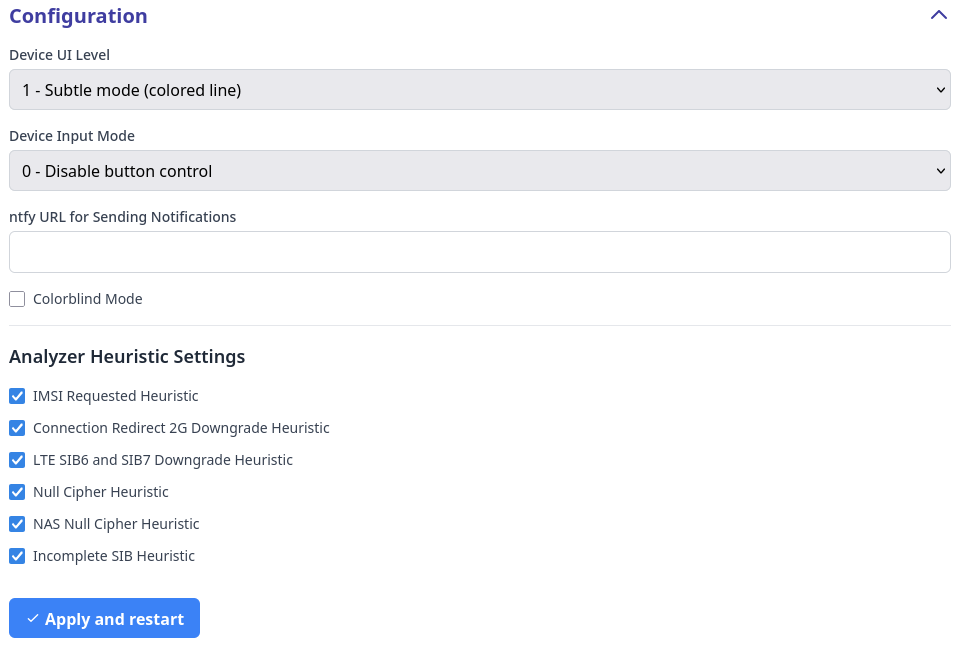
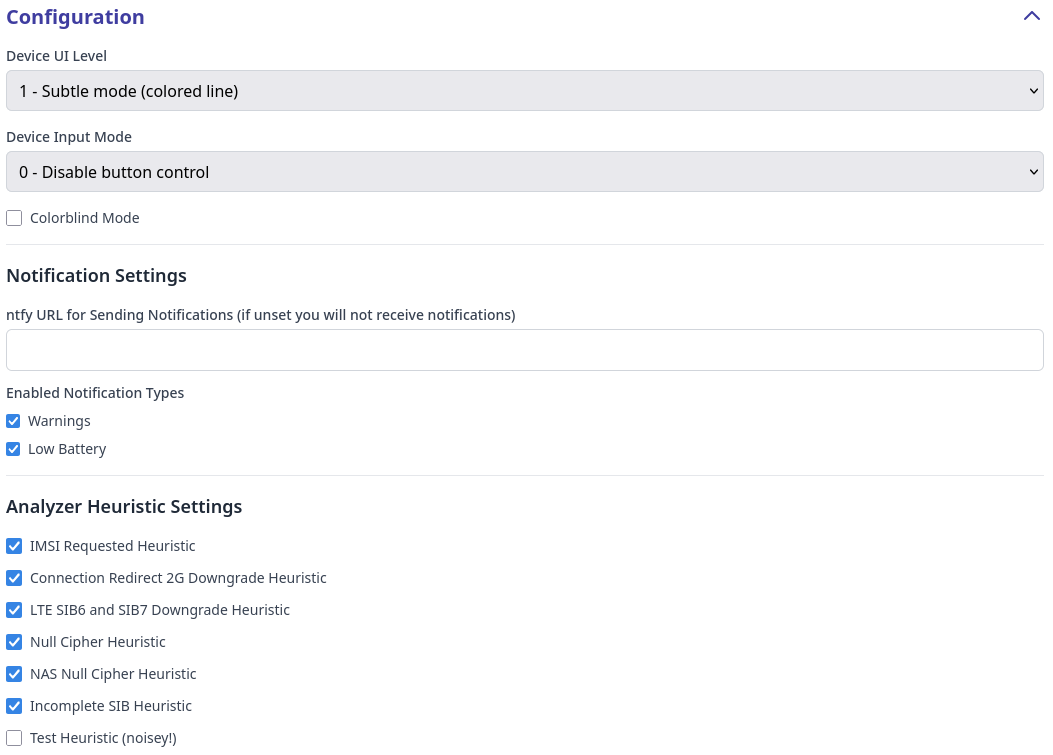
Update ConfigForm.svelte

diff --git a/daemon/web/src/lib/components/ConfigForm.svelte b/daemon/web/src/lib/components/ConfigForm.svelte
@@ -111,18 +111,6 @@
                     </select>
                 </div>
 
-                <div>
-                    <label for="ntfy_url" class="block text-sm font-medium text-gray-700 mb-1">
-                        ntfy URL for Sending Notifications
-                    </label>
-                    <input
-                        id="ntfy_url"
-                        type="url"
-                        bind:value={config.ntfy_url}
-                        class="w-full px-3 py-2 border border-gray-300 rounded-md focus:outline-none focus:ring-2 focus:ring-rayhunter-blue"
-                    />
-                </div>
-
                 <div class="space-y-3">
                     <div class="flex items-center">
                         <input
@@ -134,6 +122,56 @@
                         <label for="colorblind_mode" class="ml-2 block text-sm text-gray-700">
                             Colorblind Mode
                         </label>
+                    </div>
+                </div>
+
+                <div class="border-t pt-4 mt-6 space-y-3">
+                    <h3 class="text-lg font-semibold text-gray-800 mb-4">Notification Settings</h3>
+                    <div>
+                        <label for="ntfy_url" class="block text-sm font-medium text-gray-700 mb-1">
+                            ntfy URL for Sending Notifications (if unset you will not receive
+                            notifications)
+                        </label>
+                        <input
+                            id="ntfy_url"
+                            type="url"
+                            bind:value={config.ntfy_url}
+                            class="w-full px-3 py-2 border border-gray-300 rounded-md focus:outline-none focus:ring-2 focus:ring-rayhunter-blue"
+                        />
+                    </div>
+
+                    <div class="space-y-2">
+                        <div class="block text-sm font-medium text-gray-700 mb-1">
+                            Enabled Notification Types
+                        </div>
+                        <div class="flex items-center">
+                            <input
+                                type="checkbox"
+                                id="enable_warning_notifications"
+                                value="Warning"
+                                bind:group={config.enabled_notifications}
+                            />
+                            <label
+                                for="enable_warning_notifications"
+                                class="ml-2 block text-sm text-gray-700"
+                            >
+                                Warnings
+                            </label>
+                        </div>
+                        <div class="flex items-center">
+                            <input
+                                type="checkbox"
+                                id="enable_lowbattery_notifications"
+                                value="LowBattery"
+                                bind:group={config.enabled_notifications}
+                            />
+                            <label
+                                for="enable_lowbattery_notifications"
+                                class="ml-2 block text-sm text-gray-700"
+                            >
+                                Low Battery
+                            </label>
+                        </div>
                     </div>
                 </div>
 

diff --git a/daemon/web/src/lib/utils.svelte.ts b/daemon/web/src/lib/utils.svelte.ts
@@ -12,11 +12,17 @@ export interface AnalyzerConfig {
     test_analyzer: boolean;
 }
 
+export enum enabled_notifications {
+    Warning = 'Warning',
+    LowBattery = 'LowBattery',
+}
+
 export interface Config {
     ui_level: number;
     colorblind_mode: boolean;
     key_input_mode: number;
     ntfy_url: string;
+    enabled_notifications: enabled_notifications[];
     analyzers: AnalyzerConfig;
 }
 

diff --git a/daemon/src/battery/mod.rs b/daemon/src/battery/mod.rs
@@ -1,13 +1,21 @@
-use std::path::Path;
+use std::{path::Path, time::Duration};
 
+use log::{error, info};
 use rayhunter::Device;
 use serde::Serialize;
+use tokio::select;
+use tokio_util::{sync::CancellationToken, task::TaskTracker};
 
-use crate::error::RayhunterError;
+use crate::{
+    error::RayhunterError,
+    notifications::{Notification, NotificationType},
+};
 
 pub mod orbic;
 pub mod tmobile;
 pub mod wingtech;
+
+const LOW_BATTERY_LEVEL: u8 = 10;
 
 #[derive(Clone, Copy, PartialEq, Debug, Serialize)]
 pub struct BatteryState {
@@ -44,4 +52,60 @@ pub async fn get_battery_status(device: &Device) -> Result<BatteryState, Rayhunt
         Device::Tmobile => tmobile::get_battery_state().await?,
         _ => return Err(RayhunterError::FunctionNotSupportedForDeviceError),
     })
+}
+
+pub fn run_battery_notification_worker(
+    task_tracker: &TaskTracker,
+    device: Device,
+    notification_channel: tokio::sync::mpsc::Sender<Notification>,
+    shutdown_token: CancellationToken,
+) {
+    task_tracker.spawn(async move {
+        // Don't send a notification initially if the device starts at a low battery level.
+        let mut triggered = match get_battery_status(&device).await {
+            Err(RayhunterError::FunctionNotSupportedForDeviceError) => {
+                info!("Battery level function not supported for device");
+                false
+            }
+            Err(e) => {
+                error!("Failed to get battery status: {e}");
+                true
+            }
+            Ok(status) => status.level < LOW_BATTERY_LEVEL,
+        };
+
+        loop {
+            select! {
+                _ = shutdown_token.cancelled() => break,
+                _ = tokio::time::sleep(Duration::from_secs(15)) => {}
+            }
+
+            let status = match get_battery_status(&device).await {
+                Err(e) => {
+                    error!("Failed to get battery status: {e}");
+                    continue;
+                }
+                Ok(status) => status,
+            };
+
+            // To avoid flapping, if the notification has already been triggered
+            // wait until the device has been plugged in and the battery level
+            // is high enough to re-enable notifications.
+            if triggered && status.is_plugged_in && status.level > LOW_BATTERY_LEVEL {
+                triggered = false;
+                continue;
+            }
+            if !triggered && !status.is_plugged_in && status.level <= LOW_BATTERY_LEVEL {
+                notification_channel
+                    .send(Notification::new(
+                        NotificationType::LowBattery,
+                        "Rayhunter's battery is low".to_string(),
+                        None,
+                    ))
+                    .await
+                    .expect("Failed to send to notification channel");
+                triggered = true;
+            }
+        }
+    });
 }

diff --git a/daemon/src/notifications.rs b/daemon/src/notifications.rs
@@ -5,19 +5,30 @@ use std::{
 };
 
 use log::error;
+use serde::{Deserialize, Serialize};
 use tokio::sync::mpsc::{self, error::TryRecvError};
 use tokio_util::task::TaskTracker;
 
+#[derive(Hash, Eq, PartialEq, Debug, Clone, Serialize, Deserialize)]
+pub enum NotificationType {
+    Warning,
+    LowBattery,
+}
+
 pub struct Notification {
-    message_type: String,
+    notification_type: NotificationType,
     message: String,
     debounce: Option<Duration>,
 }
 
 impl Notification {
-    pub fn new(message_type: String, message: String, debounce: Option<Duration>) -> Self {
+    pub fn new(
+        notification_type: NotificationType,
+        message: String,
+        debounce: Option<Duration>,
+    ) -> Self {
         Notification {
-            message_type,
+            notification_type,
             message,
             debounce,
         }
@@ -52,6 +63,7 @@ impl NotificationService {
 pub fn run_notification_worker(
     task_tracker: &TaskTracker,
     mut notification_service: NotificationService,
+    enabled_notifications: Vec<NotificationType>,
 ) {
     task_tracker.spawn(async move {
         if let Some(url) = notification_service.url
@@ -65,8 +77,12 @@ pub fn run_notification_worker(
                 loop {
                     match notification_service.rx.try_recv() {
                         Ok(notification) => {
+                            if !enabled_notifications.contains(&notification.notification_type) {
+                                continue;
+                            }
+
                             let status = notification_statuses
-                                .entry(notification.message_type)
+                                .entry(notification.notification_type)
                                 .or_insert_with(|| NotificationStatus {
                                     message: "".to_string(),
                                     needs_sending: true,

diff --git a/daemon/src/main.rs b/daemon/src/main.rs
@@ -14,6 +14,7 @@ mod stats;
 use std::net::SocketAddr;
 use std::sync::Arc;
 
+use crate::battery::run_battery_notification_worker;
 use crate::config::{parse_args, parse_config};
 use crate::diag::run_diag_read_thread;
 use crate::error::RayhunterError;
@@ -260,7 +261,20 @@ async fn run_with_config(
         qmdl_store_lock.clone(),
         analysis_tx.clone(),
     );
-    run_notification_worker(&task_tracker, notification_service);
+
+    run_battery_notification_worker(
+        &task_tracker,
+        config.device.clone(),
+        notification_service.new_handler(),
+        shutdown_token.clone(),
+    );
+
+    run_notification_worker(
+        &task_tracker,
+        notification_service,
+        config.enabled_notifications.clone(),
+    );
+
     let state = Arc::new(ServerState {
         config_path: args.config_path.clone(),
         config,

diff --git a/daemon/src/diag.rs b/daemon/src/diag.rs
@@ -24,7 +24,7 @@ use rayhunter::qmdl::QmdlWriter;
 
 use crate::analysis::{AnalysisCtrlMessage, AnalysisWriter};
 use crate::display;
-use crate::notifications::Notification;
+use crate::notifications::{Notification, NotificationType};
 use crate::qmdl_store::{RecordingStore, RecordingStoreError};
 use crate::server::ServerState;
 
@@ -207,7 +207,7 @@ impl DiagTask {
                 info!("a heuristic triggered on this run!");
                 self.notification_channel
                     .send(Notification::new(
-                        "heuristic-warning".to_string(),
+                        NotificationType::Warning,
                         format!("Rayhunter has detected a {:?} severity event", max_type),
                         Some(Duration::from_secs(60 * 5)),
                     ))

diff --git a/daemon/src/config.rs b/daemon/src/config.rs
@@ -5,6 +5,7 @@ use rayhunter::Device;
 use rayhunter::analysis::analyzer::AnalyzerConfig;
 
 use crate::error::RayhunterError;
+use crate::notifications::NotificationType;
 
 #[derive(Debug, Clone, Deserialize, Serialize)]
 #[serde(default)]
@@ -17,6 +18,7 @@ pub struct Config {
     pub colorblind_mode: bool,
     pub key_input_mode: u8,
     pub ntfy_url: Option<String>,
+    pub enabled_notifications: Vec<NotificationType>,
     pub analyzers: AnalyzerConfig,
 }
 
@@ -32,6 +34,7 @@ impl Default for Config {
             key_input_mode: 0,
             analyzers: AnalyzerConfig::default(),
             ntfy_url: None,
+            enabled_notifications: vec![NotificationType::Warning, NotificationType::LowBattery],
         }
     }
 }

diff --git a/doc/configuration.md b/doc/configuration.md
@@ -13,8 +13,11 @@ Through web UI you can set:
 - **Device Input Mode**, which defines behaviour of built-in power button of the device. *Device Input Mode* could be:
   - *Disable button control*: built-in power button of the device is not used by Rayhunter;
   - *Double-tap power button to start/stop recording*: double clicking on a built-in power button of the device stops and immediately restarts the recording. This could be useful if Rayhunter's heuristichs is triggered and you get the red line, and you want to "reset" the past warnings. Normally you can do that through web UI, but sometimes it is easier to double tap on power button.
-- **ntfy URL for Sending Notifications**, which allows setting a [ntfy](https://ntfy.sh/) URL to which notifications of new detections will be sent. The topic should be unique to your device, e.g., `https://ntfy.sh/rayhunter_notifications_ba9di7ie` or `https://myserver.example.com/rayhunter_notifications_ba9di7ie`. The ntfy Android and iOS apps can then be used to receive notifications. More information can be found in the [ntfy docs](https://docs.ntfy.sh/).
 - **Colorblind Mode** enables color blind mode (blue line is shown instead of green line, red line remains red). Please note that this does not cover all types of color blindness, but switching green to blue should be about enough to differentiate the color change for most types of color blindness.
+- **ntfy URL**, which allows setting a [ntfy](https://ntfy.sh/) URL to which notifications of new detections will be sent. The topic should be unique to your device, e.g., `https://ntfy.sh/rayhunter_notifications_ba9di7ie` or `https://myserver.example.com/rayhunter_notifications_ba9di7ie`. The ntfy Android and iOS apps can then be used to receive notifications. More information can be found in the [ntfy docs](https://docs.ntfy.sh/).
+- **Enabled Notification Types** allows enabling or disabling the following types of notifications:
+  - *Warnings*, which will alert when a heuristic is triggered. Alerts will be sent at most once every five minutes.
+  - *Low Battery*, which will alert when the device's battery is low. Notifications may not be supported for all devices—you can check if your device is supported by looking at whether the battery level indicator is functioning on the System Information section of the Rayhunter UI.
 - With **Analyzer Heuristic Settings** you can switch on or off built-in [Rayhunter heuristics](heuristics.md). Some heuristics are experimental or can trigger a lot of false positive warnings in some networks (our tests have shown that some heuristics have different behaviour in US or European networks). In that case you can decide whether you would like to have the heuristics that trigger a lot of false positives on or off. Please note that we are constantly improving and adding new heuristics, so new release may reduce false positives in existing heuristics as well.
 
 If you prefer editing `config.toml` file, you need to obtain a shell on your [Orbic](./orbic.md#obtaining-a-shell) or [TP-Link](./tplink-m7350.md#obtaining-a-shell) device and edit the file manually. You can view the [default configuration file on a GitHub](https://github.com/EFForg/rayhunter/blob/main/dist/config.toml.in).
